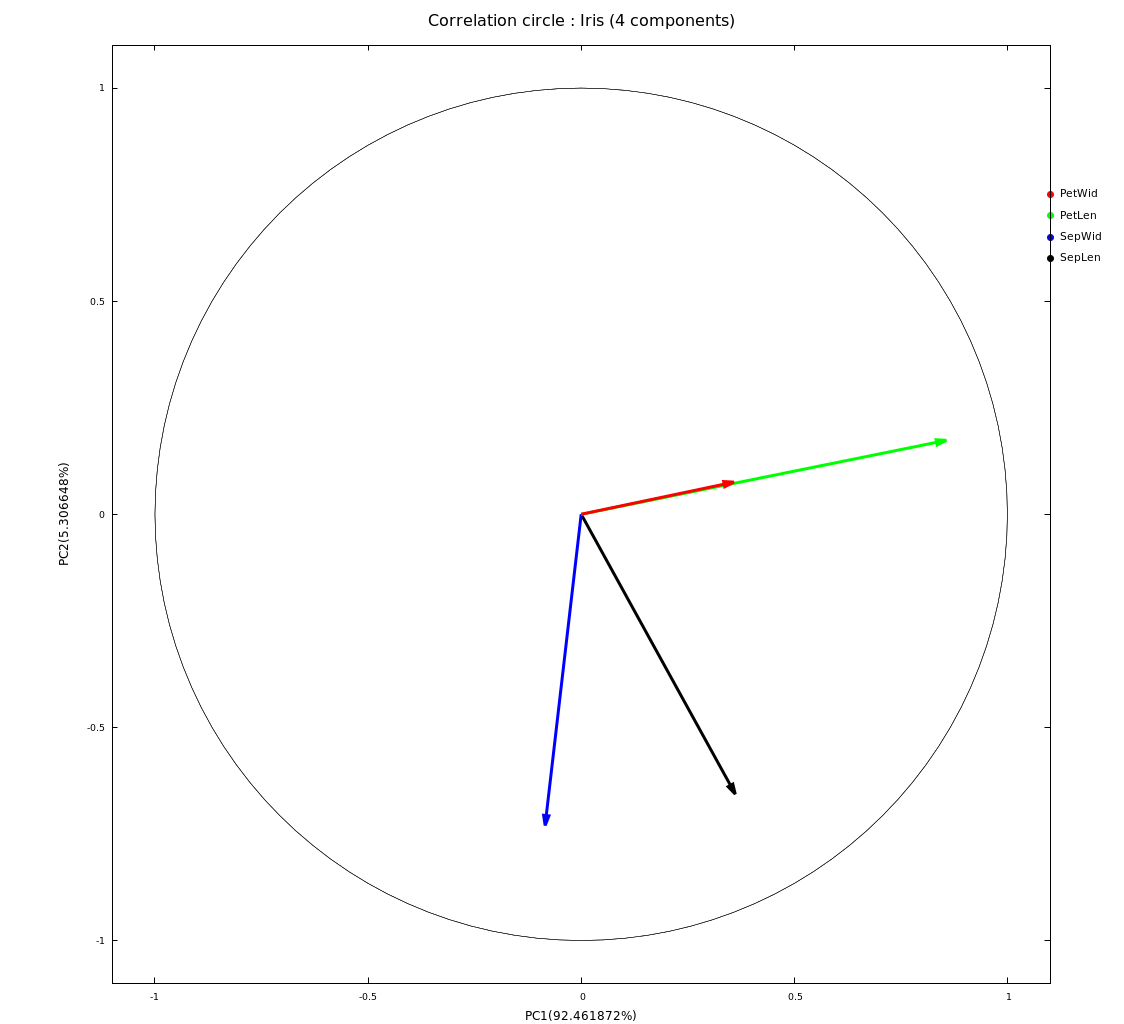
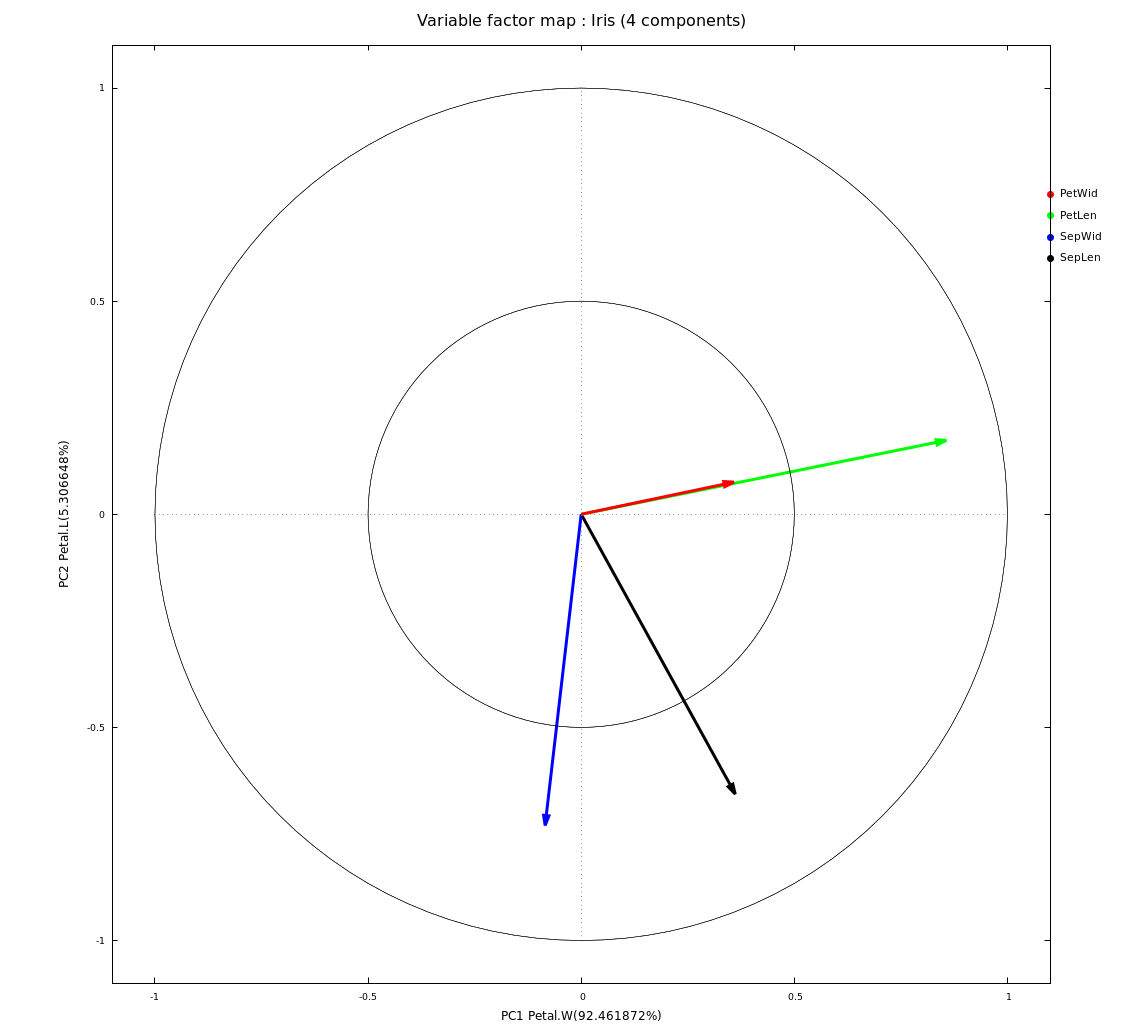
feat : gplot improvements

Changed region(s): [[0.3737, 0.0, 0.6539, 0.0312], [0.4671, 0.9688, 0.5916, 1.0], [0.0311, 0.4375, 0.0623, 0.5625]]

diff --git a/src/main.cpp b/src/main.cpp
@@ -126,9 +126,9 @@ static void plotScatterWrapper(std::string filename, pca_result_s<T> &result)
     gparams.filename = filename;
     gparams.width = 1024;
     gparams.height = 768;
-    gparams.title = "Scatter : Iris species";
-    gparams.xlabel = "PC1 (Petal.W)";
-    gparams.ylabel = "PC2 (Petal.L)";
+    gparams.title = "Scatter plot (Individual factor map) : Iris species";
+    gparams.xlabel = "PC1 Petal.W(" + to_string(result.exp_variance[0] * 100) + "%)";
+    gparams.ylabel = "PC2 Petal.L(" + to_string(result.exp_variance[1] * 100) + "%)";
     gparams.legend = "Setosa Versicolor Virginica";
     std::vector<T> col1, col2;
     getCol<T>(result.proj, 0, col1);
@@ -139,7 +139,8 @@ static void plotScatterWrapper(std::string filename, pca_result_s<T> &result)
     gparams.lyrange = (*min_element(col2.begin(), col2.end())) - margin;
     gparams.hyrange = (*max_element(col2.begin(), col2.end())) + margin;
     T category;
-    for (ui_t c = 0; c < col1.size(); c++)
+    ui_t coSize = col1.size();
+    for (ui_t c = 0; c < coSize; c++)
     {
         if (c < 52)
             category = 0;
@@ -164,9 +165,9 @@ static void plotCorCircleWrapper(std::string filename, pca_result_s<T> &result)
     gparams.filename = filename;
     gparams.height = 1024;
     gparams.width = gparams.height + 100;
-    gparams.title = "Correlation circle : Iris (4 components)";
-    gparams.xlabel = "PC1(" + to_string(result.exp_variance[0] * 100) + "%)";
-    gparams.ylabel = "PC2(" + to_string(result.exp_variance[1] * 100) + "%)";
+    gparams.title = "Variable factor map : Iris (4 components)";
+    gparams.xlabel = "PC1 Petal.W(" + to_string(result.exp_variance[0] * 100) + "%)";
+    gparams.ylabel = "PC2 Petal.L(" + to_string(result.exp_variance[1] * 100) + "%)";
     gparams.legend = "SepLen SepWid PetLen PetWid";
     const T margin = 0.1;
     std::vector<T> col1, col2;
@@ -175,7 +176,8 @@ static void plotCorCircleWrapper(std::string filename, pca_result_s<T> &result)
     gparams.lxrange = gparams.lyrange = -1 - margin;
     gparams.hxrange = gparams.hyrange = 1 + margin;
     T category;
-    for (ui_t c = 0; c < col1.size(); c++)
+    ui_t coSize = col1.size();
+    for (ui_t c = 0; c < coSize; c++)
         gparams.serie_ooxyc.emplace_back(0, 0, col1[c], col2[c], c);
     col1.clear();
     col2.clear();

diff --git a/script/python/workspace/vfmap.py b/script/python/workspace/vfmap.py
@@ -1,0 +1,66 @@
+from sklearn import datasets
+import numpy as np
+from sklearn.decomposition import PCA
+import pandas as pd
+import matplotlib.pyplot as plt
+
+def pca_map(X, figsize=(10,10), sup="", print_values= False):
+    #PCA
+    columns=X.columns.values
+    pca=PCA(n_components=2)
+    pca.fit(X)
+    pca_values=pca.components_
+    
+    #Plot
+    plt.figure(figsize=figsize)
+    plt.rcParams.update({'font.size': 14}) 
+    
+    #Plot circle
+    x=np.linspace(start=-1,stop=1,num=500)
+    y_positive=lambda x: np.sqrt(1-x**2) 
+    y_negative=lambda x: -np.sqrt(1-x**2)
+    plt.plot(x,list(map(y_positive, x)), color='maroon')
+    plt.plot(x,list(map(y_negative, x)),color='maroon')
+    
+    #Plot smaller circle
+    x=np.linspace(start=-0.5,stop=0.5,num=500)
+    y_positive=lambda x: np.sqrt(0.5**2-x**2) 
+    y_negative=lambda x: -np.sqrt(0.5**2-x**2)
+    plt.plot(x,list(map(y_positive, x)), color='maroon')
+    plt.plot(x,list(map(y_negative, x)),color='maroon')
+    
+    #Create broken lines
+    x=np.linspace(start=-1,stop=1,num=30)
+    plt.scatter(x,[0]*len(x), marker='_',color='maroon')
+    plt.scatter([0]*len(x), x, marker='|',color='maroon')
+
+    #Define color list
+    colors = ['blue', 'red', 'green', 'black', 'purple', 'brown']
+    if len(pca_values[0]) > 6:
+        colors=colors*(int(len(pca_values[0])/6)+1)
+
+    #Plot arrow
+    add_string=""
+    for i in range(len(pca_values[0])):
+        xi=pca_values[0][i]
+        yi=pca_values[1][i]
+        plt.arrow(0,0, 
+                  dx=xi, dy=yi, 
+                  head_width=0.03, head_length=0.03, 
+                  color=colors[i], length_includes_head=True)
+        if print_values==True:
+            add_string=f" ({round(xi,2)} {round(yi,2)})"
+        plt.text(pca_values[0, i], 
+                 pca_values[1, i] , 
+                 s=columns[i] + add_string )
+
+    plt.xlabel(f"Component 1 ({round(pca.explained_variance_ratio_[0]*100,2)}%)")
+    plt.ylabel(f"Component 2 ({round(pca.explained_variance_ratio_[1]*100,2)}%)")
+    plt.title('Variable factor map (PCA)')
+    plt.suptitle(sup, y=1, fontsize=18)
+    plt.savefig('vfmap.png')
+
+iris = datasets.load_iris()
+X=pd.DataFrame(data=iris.data,columns=iris.feature_names)
+
+pca_map(X, figsize=(10,10), sup="Iris")

diff --git a/include/gplot.h b/include/gplot.h
@@ -13,11 +13,13 @@
 #define SQ "'"
 #define SMC ";"
 #define COMA ","
-#define _PLOT "plot"
+#define _PLOT "plot "
 #define _SET "set "
 #define EOD "EOD"
 #define DEFAULT_FONT "Verdana"
-#define SET_TERMINAL_PNG _SET "term pngcairo transparent enhanced size %1%,%2% font 'Verdana,8'"
+#define _FONT_ " font "
+// transparent
+#define SET_TERMINAL_PNG _SET "term pngcairo enhanced size %1%,%2% font 'Verdana,8'"
 #define SET_OUTPUT_FILENAME_FMT _SET "output '%1%'"
 #define SET_XRANGE_FMT _SET "xrange [%1%:%2%]"
 #define SET_YRANGE_FMT _SET "yrange [%1%:%2%]"
@@ -29,7 +31,8 @@
 #define SET_YLABEL _SET "ylabel "
 #define USING_SCATTER "using 1:2:($3) notitle with points ps 0.5 pt 7 palette"
 #define USING_CORCIRCLE "using 1:2:3:4:($5) notitle with vectors filled head lw 3 palette"
-#define SET_CIRCLE "set object 1 circle front at 0,0 size 1 fillcolor rgb 'black' lw 0.5"
+#define SET_CIRCLE_1 _SET "object 1 circle front at 0,0 size 1 fillcolor rgb 'black' lw 0.5"
+#define SET_CIRCLE_2 _SET "object 2 circle front at 0,0 size 0.5 fillcolor rgb 'black' lw 0.5"
 #define LEGEND1 ",'+' using (kx):(ky + $0*kdy):(word(labels, int($0+1))):0 "
 #define LEGEND2 "with labels left offset 1,-0.1 point pt 7 palette t ''"
 #define SET_LEGEND LEGEND1 LEGEND2

diff --git a/src/gplot.cpp b/src/gplot.cpp
@@ -33,7 +33,10 @@ void Gplot<T>::drawCorCircle(void)
    setLegendParams(m_params.hxrange, m_params.hyrange - 0.5, 0.05);
    setAxisLabels();
    setRanges();
-   gp << SET_CIRCLE << std::endl;
+   gp << SET_CIRCLE_1 << std::endl;
+   gp << SET_CIRCLE_2 << std::endl;
+   gp << _SET << "arrow 1 from -1,0 to 1,0 nohead lt 0" << std::endl;
+   gp << _SET << "arrow 2 from 0,-1 to 0,1 nohead lt 0" << std::endl;
    gp << _PLOT
       << gp.file1d(m_params.serie_ooxyc)
       << USING_CORCIRCLE
@@ -127,7 +130,6 @@ void Gplot<T>::setDefaultFontsSizes(
     const us_t &ylabel,
     const us_t &tics)
 {
-#define _FONT_ " font "
    gp << _SET << "title" << _FONT_ << SQ DEFAULT_FONT COMA
       << title << SQ SMC
       << _SET << "xlabel" << _FONT_ << SQ DEFAULT_FONT COMA

diff --git a/README.md b/README.md
@@ -179,7 +179,7 @@ Fixture csv iris species 4x150
 
 #### Scatter
 
-![Scatter](doc/assets/img/scatter.png)
+![Scatter](./doc/assets/img/scatter.png)
 
 #### Correlation circle
 
